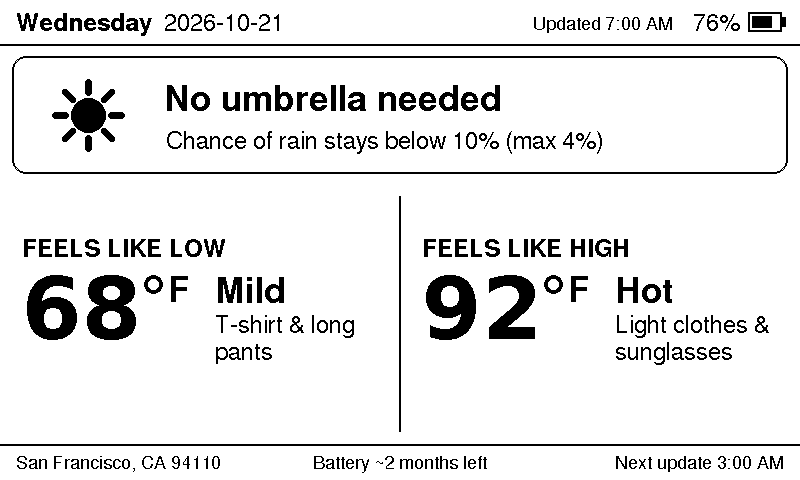
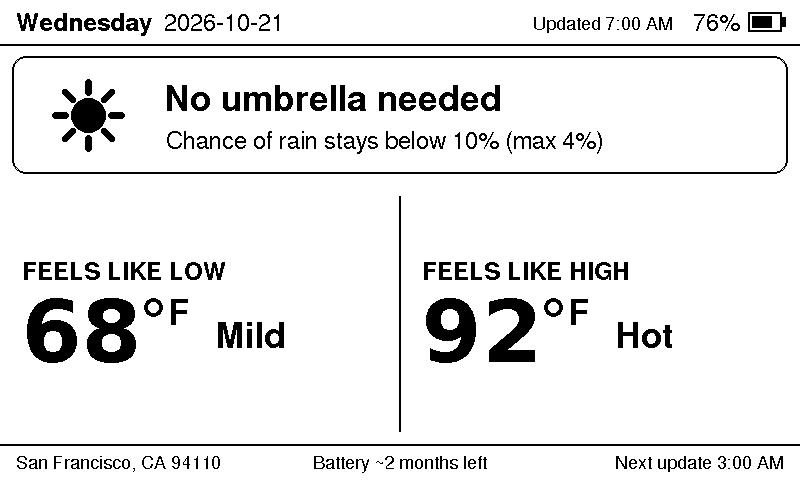
Drop the clothing advice text; panels show temperature and tier only

Changed region(s): [[0.5312, 0.5, 0.9688, 0.7812], [0.0312, 0.5, 0.4375, 0.7812]]

diff --git a/lib/doorcore/src/screen.cpp b/lib/doorcore/src/screen.cpp
@@ -291,26 +291,21 @@ void drawAttirePanel(Adafruit_GFX& g, int x0, int top, int bottom, const char* l
   const int h = bottom - top;
   const int tx = x0 + 22;
   const int rx = x0 + 215;
-  const int wrapW = x0 + 400 - rx - 14;
-  if (h >= 150) {
-    // Content is ~165 px tall; centre it when there's more room.
-    const int y = top + std::max(0, (h - 175) / 2);
+  if (h >= 130) {
+    const int y = top + (h - 130) / 2;  // centre the ~130 px of content
     text(g, kBodyBold, tx, y + 30, label, kBlack);
     drawTemperature(g, tx, y + 112, temp, unit);
-    text(g, kTitle, rx, y + 76, tierName(tier), kBlack);
-    textWrapped(g, kBody, rx, y + 106, wrapW, 27, tierAdvice(tier), kBlack);
-  } else if (h >= 112) {
-    const int y = top + (h - 112) / 2;
+    text(g, kTitle, rx, y + 98, tierName(tier), kBlack);
+  } else if (h >= 100) {
+    const int y = top + (h - 100) / 2;
     text(g, kBodyBold, tx, y + 24, label, kBlack);
     drawTemperature(g, tx, y + 94, temp, unit);
-    text(g, kTitle, rx, y + 52, tierName(tier), kBlack);
-    textWrapped(g, kBody, rx, y + 80, wrapW, 26, tierAdvice(tier), kBlack);
+    text(g, kTitle, rx, y + 80, tierName(tier), kBlack);
   } else {
-    const int y = top + std::max(0, (h - 88) / 2);
+    const int y = top + std::max(0, (h - 72) / 2);
     text(g, kSmallBold, tx, y + 18, label, kBlack);
     drawTemperature(g, tx, y + 64, temp, unit, true);
-    text(g, kBodyBold, rx, y + 40, tierName(tier), kBlack);
-    textWrapped(g, kSmall, rx, y + 62, wrapW, 20, tierAdvice(tier), kBlack);
+    text(g, kBodyBold, rx, y + 58, tierName(tier), kBlack);
   }
 }
 
@@ -399,7 +394,7 @@ void drawWeatherScreen(Adafruit_GFX& g, const WeatherScreen& s) {
     return bottom - used;
   };
   // Shrink the rain banner (and reminders) when everything wouldn't fit.
-  const bool compact = panelRoom(rainHeight(s, false)) < 150;
+  const bool compact = panelRoom(rainHeight(s, false)) < 130;
   if (compact && remindersH) remindersH = 48;
 
   int top = 56;

diff --git a/lib/doorcore/src/attire.cpp b/lib/doorcore/src/attire.cpp
@@ -25,17 +25,4 @@ const char* tierName(Tier t) {
   return "";
 }
 
-const char* tierAdvice(Tier t) {
-  switch (t) {
-    case Tier::Freezing: return "Heavy coat, hat, scarf & gloves";
-    case Tier::Cold: return "Warm coat, scarf & boots";
-    case Tier::Chilly: return "Light jacket & long pants";
-    case Tier::Cool: return "Sweater & long pants";
-    case Tier::Mild: return "T-shirt & long pants";
-    case Tier::Warm: return "T-shirt & shorts or a skirt";
-    case Tier::Hot: return "Light clothes & sunglasses";
-  }
-  return "";
-}
-
 }  // namespace door

diff --git a/lib/doorcore/src/attire.h b/lib/doorcore/src/attire.h
@@ -8,8 +8,6 @@ enum class Tier : uint8_t { Freezing, Cold, Chilly, Cool, Mild, Warm, Hot };
 // Tiers are chosen on the "feels like" (apparent) temperature in Fahrenheit.
 Tier tierForFeelsLikeF(float feelsLikeF);
 const char* tierName(Tier tier);
-// Short description of what to wear, e.g. "Light jacket & long pants".
-const char* tierAdvice(Tier tier);
 
 inline float celsiusToFahrenheit(float c) { return c * 9.0f / 5.0f + 32.0f; }
 

diff --git a/README.md b/README.md
@@ -6,7 +6,7 @@ A battery-powered 7.5" e-ink display for the front door. Each morning it shows:
   hour-by-hour bar chart (6 AM–10 PM), so you can see if it'll rain on the way home,
 - active National Weather Service alerts (winter storm, heat advisory, high wind, …) as a black strip on top,
 - "Wear sunscreen" (UV ≥ 6), "Windy" (gusts ≥ 30 mph) and air-quality (US AQI > 100, e.g. wildfire smoke) notes,
-- today's "feels like" low and high, each with what to wear (e.g. "Chilly: light jacket & long pants"),
+- today's "feels like" low and high, each labelled with a tier (Freezing, Cold, Chilly, Cool, Mild, Warm, Hot),
 - the weekday and date (`YYYY-MM-DD`), update time and battery level, so you can tell it refreshed today,
 - an estimate of the days/weeks of battery left, based on how fast it has drained since the last charge.
 
@@ -141,7 +141,7 @@ Tap **Done** to redraw the display; the page also closes after 10 idle minutes.
   wake, and the firmware learns the ESP32 sleep-timer drift so wakes stay on the hour.
 - **Rain:** "likely" means any hour from now until midnight has ≥ 10% precipitation probability (snow counts).
   The subtitle shows the peak chance and the time span.
-- **Feels like:** Open-Meteo's daily apparent-temperature min/max. Clothing advice uses 7 tiers: Freezing < 32°F,
+- **Feels like:** Open-Meteo's daily apparent-temperature min/max. The tiers are: Freezing < 32°F,
   Cold < 45, Chilly < 55, Cool < 65, Mild < 75, Warm < 85, Hot.
 - **Alerts:** from `api.weather.gov` for your ZIP's coordinates; the most severe alert in effect that day is
   shown, with "+N more alerts" if there are others. If the alert request fails, the last known alerts are kept.
